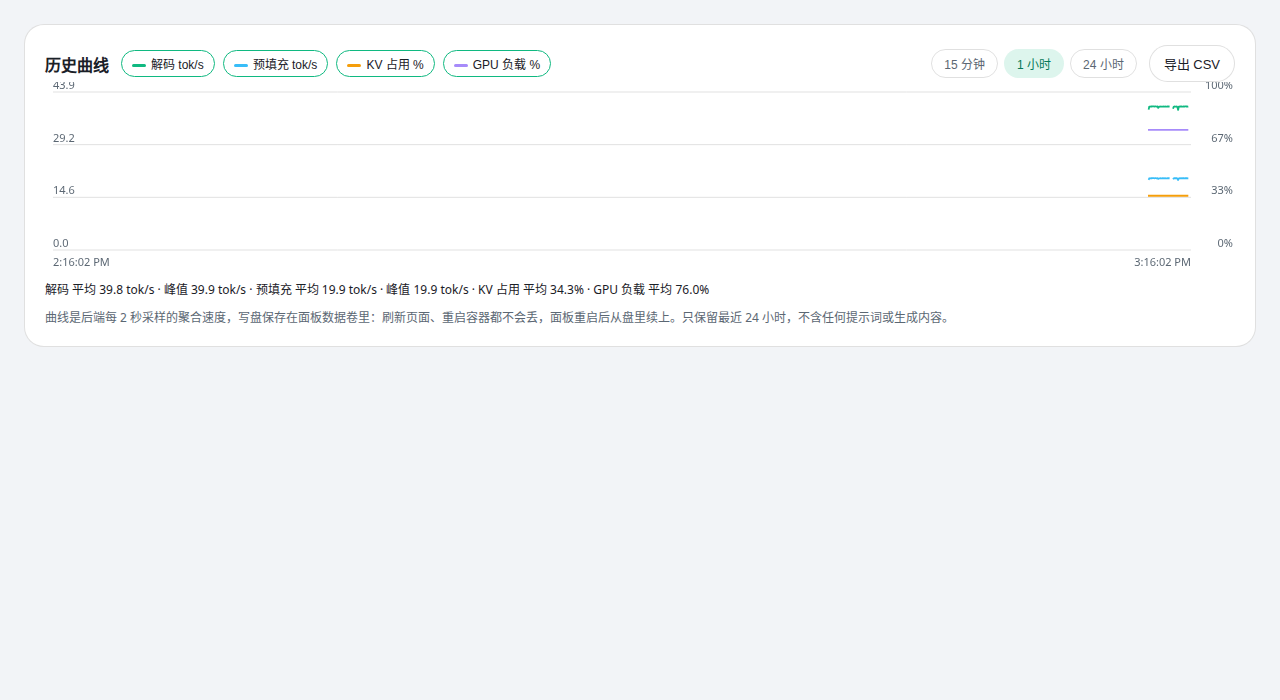
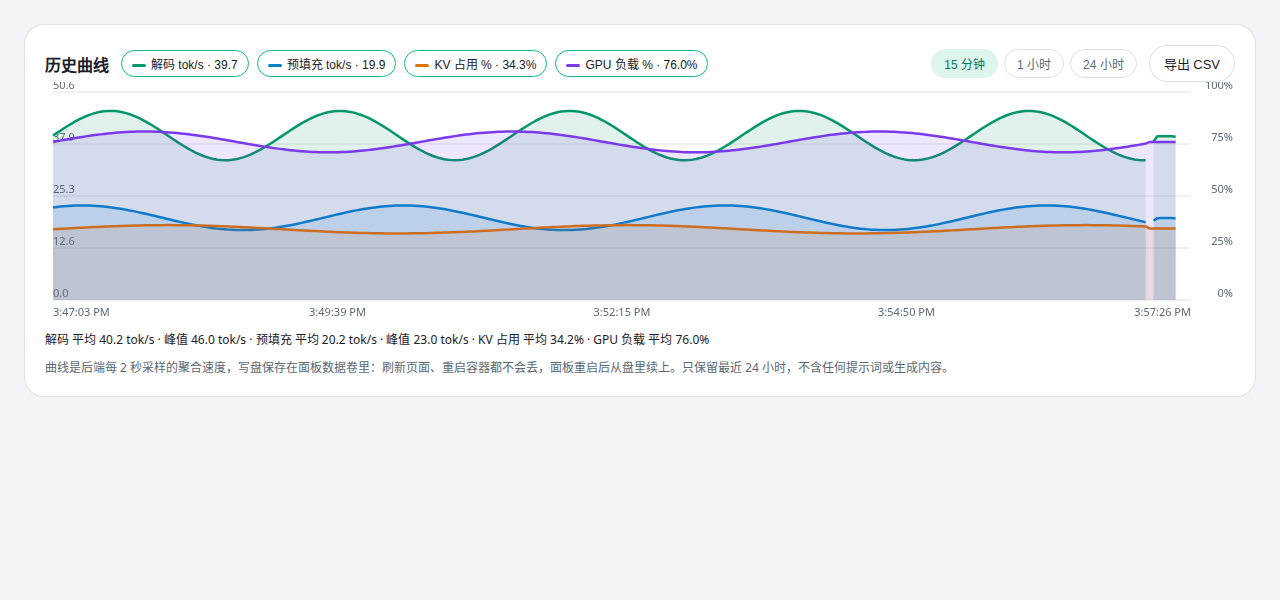
Docs: v0.1.5 README updates (zh+en) + light-theme screenshots

diff --git a/README.en.md b/README.en.md
@@ -11,7 +11,7 @@ A read-only live panel for an already-running NInfer server. It deploys, downloa
 
 The images below are the real panel UI (light theme, Chinese UI). The data is simulated, not live ninfer-unc telemetry: the model name carries `(FAKE)`, and the CPU / disk cards show "unavailable" because the screenshot environment had no host `/proc` mount.
 
-Main panel (9 metric cards; the requests table shows in-flight requests on top and grey rows for requests observed ending in the past hour below):
+Main panel (9 metric cards, the PCIe card can be hidden from Settings; the requests table shows in-flight requests on top and grey rows for requests observed ending in the past hour below):
 
 ![Main panel](docs/screenshots/panel.png)
 
@@ -19,7 +19,7 @@ Settings dialog (opened from the top-right Settings button; changing the NInfer 
 
 ![Settings dialog](docs/screenshots/settings.png)
 
-History with multiple dimensions (decode + prefill + KV usage + GPU load together, left axis tok/s, right axis %):
+History with multiple dimensions (15 minutes by default; decode + prefill + KV usage + GPU load together, legend shows latest values, left axis tok/s, right axis %):
 
 ![History with multiple dimensions](docs/screenshots/history.png)
 
@@ -46,16 +46,16 @@ python3 app.py
 | Section | Content |
 | --- | --- |
 | Model state | Five states: idle / reading / generating / queued / error. NInfer has no single state field; this is the panel's documented mapping from running / waiting / prefilling / decode_ready, not a server field. |
-| 9 metric cards | Decode speed, prefill speed, GPU load, VRAM, GPU temperature, power, PCIe link, CPU, disk read. Each card has a sparkline that resumes from backend history after a page refresh (PCIe has link info only, so its sparkline stays dashed). |
-| Current requests | Top rows are in-flight slots: slot id, prompt length, cached portion, context window, share of window, status "In flight". Grey rows below are requests the panel observed ending in the past hour (status "Ended HH:MM"); lengths only, no content; slot ids are reused, so one number can appear twice. Queued requests are a count only, with no per-request detail. |
+| 9 metric cards | Decode speed, prefill speed, GPU load, VRAM, GPU temperature, power, PCIe link, CPU, disk read. Each card has a sparkline that resumes from backend history after a page refresh (PCIe has link info only, so its sparkline stays dashed). The PCIe card can be hidden from Settings (shown by default; hiding affects only this browser's view, polling continues). |
+| Current requests | Top rows are in-flight slots: slot id, prompt length, cached portion (length · share of prompt, e.g. 4K · 33.3%), context window, share of window, status "In flight". Grey rows below are requests the panel observed ending in the past hour (status "Ended HH:MM"); lengths only, no content; slot ids are reused, so one number can appear twice. Queued requests are a count only, with no per-request detail. |
 | Context usage | Longest in-flight prompt / window limit (`capacity.max_context` from `/v1/load`), plus KV cache, system memory, and GPU temperature rows. |
 | Conversation cache | Retained slot count and host KV, plus cumulative reused tokens. |
-| History | Four curves — decode, prefill, KV usage, GPU load — with multi-select dimension toggles in the legend (selection is stored in the browser). Time range switches between 15 minutes / 1 hour / 24 hours (plus a 7-day range when retention reaches 7 days); hover shows each selected dimension at that moment; below the curve are the current window's average/peak stats, and Export CSV saves the current window and dimensions. The curve is sampled by the backend every 2 seconds and persisted to disk, so it survives page refreshes, restarts, and recreates (with the data volume mounted); only the last 24 hours are kept (retention is configurable). |
+| History | Four curves — decode, prefill, KV usage, GPU load — with multi-select dimension toggles in the legend (selection is stored in the browser), and the legend shows each dimension's latest value. The default range is 15 minutes; time range switches between 15 minutes / 1 hour / 24 hours (plus a 7-day range when retention reaches 7 days); hover shows each selected dimension at that moment; below the curve are the current window's average/peak stats, and Export CSV saves the current window and dimensions. The curve is sampled by the backend every 2 seconds and persisted to disk, so it survives page refreshes, restarts, and recreates (with the data volume mounted); only the last 24 hours are kept (retention is configurable). When the data span is shorter than the selected window, the axis fits the data span so the curve always fills the chart, and the time ticks adapt to the span. |
 | State events | A log of state changes seen by backend polling (time, old state → new state, reason), capped at 200 entries and stored in the data volume; the curve marks each event's moment with a vertical line (offline red, recovery green, other grey). |
 
 ## Settings
 
-The Settings dialog in the top right edits the NInfer address; saving takes effect immediately — no compose edit, no panel restart. Precedence: **UI-saved address > `NINFER_BASE_URL` environment variable > image default**. The dialog also offers Test connection (checks `/health` only, sends no API key, never auto-saves), a page refresh interval (1–10 s, display only — backend sampling is unchanged), a manual Check for updates (bypasses the 1-hour cache), and "Notify in browser when offline" (off by default). The saved value lives in `settings.json` in the data volume.
+The Settings dialog in the top right edits the NInfer address; saving takes effect immediately — no compose edit, no panel restart. Precedence: **UI-saved address > `NINFER_BASE_URL` environment variable > image default**. The dialog also offers Test connection (checks `/health` only, sends no API key, never auto-saves), a page refresh interval (1–10 s, display only — backend sampling is unchanged), a manual Check for updates (bypasses the 1-hour cache), "Notify in browser when offline" (off by default), and "Hide PCIe card" (off by default, affects only this browser's view). The saved value lives in `settings.json` in the data volume.
 
 The top-right buttons switch dark / light and 中文 / English; both choices are stored in browser `localStorage`. Before a choice, the theme follows the system and the language follows the browser language. All UI strings come from one dictionary in `web/i18n.js`; `web/index.html` contains no UI strings at all.
 
@@ -86,7 +86,8 @@ Fields that exist in Strata but not in NInfer are never fabricated:
 
 ## Number display rules (display only, values unchanged)
 
-- Speed is always written `tok/s`, never abbreviated to `t/s`; at or above 1000 tok/s it shortens to `k tok/s` (for example 1.23k tok/s).
+- Speed is always written `tok/s`, never abbreviated to `t/s`; decode at or above 1000 tok/s shortens to `k tok/s` (for example 1.23k tok/s), while prefill is always shown raw, never shortened to k (for example 1245.3 tok/s).
+- The cached column shows "length · share of prompt" (for example 4K · 33.3%).
 - Token counts at or above 1000 shorten to K/M (for example 12K, 262.1K, 180K / 524.3K); the exact value stays in the hover tooltip and in the raw `/api/snapshot` numbers.
 - Bytes auto-scale through B / KB / MB / GB; at or above 1024 MB/s the rate switches to GB/s; percentages always show 1 decimal; uptime shows as `1h 00m` / `45m` / `30s`.
 

diff --git a/README.md b/README.md
@@ -11,7 +11,7 @@
 
 下图是真实界面（浅色主题、中文界面），数据是模拟 NInfer，不是真实 ninfer-unc 的遥测：模型名带 `(FAKE)`，CPU / 磁盘卡片显示“不可用”是因为截图环境没有挂载宿主 `/proc`。
 
-主面板（9 张指标卡；当前请求表上半是进行中的请求，下半灰色行是过去 1 小时内观测到的已结束请求）：
+主面板（9 张指标卡，PCIe 卡可在设置里隐藏；当前请求表上半是进行中的请求，下半灰色行是过去 1 小时内观测到的已结束请求）：
 
 ![主面板](docs/screenshots/panel.png)
 
@@ -19,7 +19,7 @@
 
 ![设置弹窗](docs/screenshots/settings.png)
 
-历史曲线多维度（解码 + 预填充 + KV 占用 + GPU 负载同开，左轴 tok/s、右轴 %）：
+历史曲线多维度（默认 15 分钟；解码 + 预填充 + KV 占用 + GPU 负载同开，图例带最新值，左轴 tok/s、右轴 %）：
 
 ![历史曲线多维度](docs/screenshots/history.png)
 
@@ -46,16 +46,16 @@ python3 app.py
 | 区域 | 内容 |
 | --- | --- |
 | 模型状态 | 五态：空闲 / 正在读取 / 正在生成 / 排队中 / 错误。NInfer 没有单一状态字段，这是面板按 running / waiting / prefilling / decode_ready 的公开映射。 |
-| 9 张指标卡 | 解码速度、预填充速度、GPU 负载、显存、GPU 温度、功率、PCIe 链路、CPU、磁盘读取。每张卡下是迷你曲线，刷新页面后从后端历史续上（PCIe 只有链路信息，曲线恒为虚线）。 |
-| 当前请求 | 上半是当前处理中的 slot：slot 号、prompt 长度、缓存复用、上下文窗口、占窗口比例、状态“进行中”。下半灰色行是面板过去 1 小时内观测到的已结束请求（状态“已结束 HH:MM”），只含长度不含内容；slot 号会复用，同一编号可能出现两次。排队请求只有个数，没有逐条明细。 |
+| 9 张指标卡 | 解码速度、预填充速度、GPU 负载、显存、GPU 温度、功率、PCIe 链路、CPU、磁盘读取。每张卡下是迷你曲线，刷新页面后从后端历史续上（PCIe 只有链路信息，曲线恒为虚线）。PCIe 卡可在设置里勾选隐藏（默认显示，隐藏只影响本浏览器视图，轮询不停）。 |
+| 当前请求 | 上半是当前处理中的 slot：slot 号、prompt 长度、缓存复用（长度 · 占 prompt 比例，如 4K · 33.3%）、上下文窗口、占窗口比例、状态“进行中”。下半灰色行是面板过去 1 小时内观测到的已结束请求（状态“已结束 HH:MM”），只含长度不含内容；slot 号会复用，同一编号可能出现两次。排队请求只有个数，没有逐条明细。 |
 | 上下文占用 | 最长处理中 prompt / 窗口上限（`/v1/load` 的 `capacity.max_context`），另有 KV 缓存、系统内存、GPU 温度三条。 |
 | 对话缓存 | 保留的 slot 数与宿主 KV，以及累计复用 token 数。 |
-| 历史曲线 | 解码、预填充、KV 占用、GPU 负载四条曲线，图例可多选（选择记在浏览器里）；时间切 15 分钟 / 1 小时 / 24 小时（保留时长够 7 天时多一个 7 天档），悬停看某时刻数值，下方有当前窗口的平均/峰值统计，右上角“导出 CSV”。曲线由后端每 2 秒采样、写盘保存，刷新、重启、重建（挂数据卷时）都不丢，只保留最近 24 小时（保留时长可配）。 |
+| 历史曲线 | 解码、预填充、KV 占用、GPU 负载四条曲线，图例可多选（选择记在浏览器里），图例带各维最新值；默认 15 分钟，时间切 15 分钟 / 1 小时 / 24 小时（保留时长够 7 天时多一个 7 天档），悬停看某时刻数值，下方有当前窗口的平均/峰值统计，右上角“导出 CSV”。曲线由后端每 2 秒采样、写盘保存，刷新、重启、重建（挂数据卷时）都不丢，只保留最近 24 小时（保留时长可配）；数据跨度不足所选窗口时横轴贴合数据跨度，曲线始终铺满，横轴刻度按跨度自适应。 |
 | 状态事件 | 后端轮询到的状态变化日志（时间、旧状态→新状态、原因），最多 200 条，存在数据卷里；曲线上对应时刻有竖线标记（离线红、恢复绿、其他灰）。 |
 
 ## 设置
 
-右上角“设置”弹窗改 NInfer 地址，保存立即生效，不用改 compose、不用重启。优先级：**界面保存的地址 > `NINFER_BASE_URL` 环境变量 > 镜像默认地址**。弹窗里还能“测试连接”（只查 `/health`，不发 API key、不自动保存）、调页面刷新间隔（1–10 秒，只影响页面，后端采样不变）、手动“检查更新”（绕过 1 小时缓存）、开“离线时发浏览器通知”（默认关）。保存的值写在数据卷的 `settings.json` 里。
+右上角“设置”弹窗改 NInfer 地址，保存立即生效，不用改 compose、不用重启。优先级：**界面保存的地址 > `NINFER_BASE_URL` 环境变量 > 镜像默认地址**。弹窗里还能“测试连接”（只查 `/health`，不发 API key、不自动保存）、调页面刷新间隔（1–10 秒，只影响页面，后端采样不变）、手动“检查更新”（绕过 1 小时缓存）、开“离线时发浏览器通知”（默认关）、勾“隐藏 PCIe 卡片”（默认不勾，只影响本浏览器视图）。保存的值写在数据卷的 `settings.json` 里。
 
 右上角按钮切深色 / 浅色、切中文 / English，选择都记在浏览器 `localStorage` 里；没选过时主题跟随系统、语言按浏览器语言判断。界面文案全部来自 `web/i18n.js` 一本字典，`web/index.html` 里不放任何界面文案。
 
@@ -86,7 +86,8 @@ Strata 有、NInfer 没有的字段，本面板一律不编：
 
 ## 数字显示规则（只改显示，不改数值）
 
-- 速度一律写 `tok/s`（不缩成 `t/s`）；≥ 1000 tok/s 缩成 `k tok/s`（如 1.23k tok/s）。
+- 速度一律写 `tok/s`（不缩成 `t/s`）；解码 ≥ 1000 tok/s 缩成 `k tok/s`（如 1.23k tok/s），预填充一律原数不缩 k（如 1245.3 tok/s）。
+- 缓存复用列写“长度 · 占 prompt 比例”（如 4K · 33.3%）。
 - token 数 ≥ 1000 缩成 K/M（如 12K、262.1K、180K / 524.3K），精确值在悬停提示和 `/api/snapshot` 原始数字里。
 - 字节自动换档 B / KB / MB / GB；≥ 1024 MB/s 自动升 GB/s；百分比统一 1 位小数；运行时间显示为 `1h 00m` / `45m` / `30s`。
 
